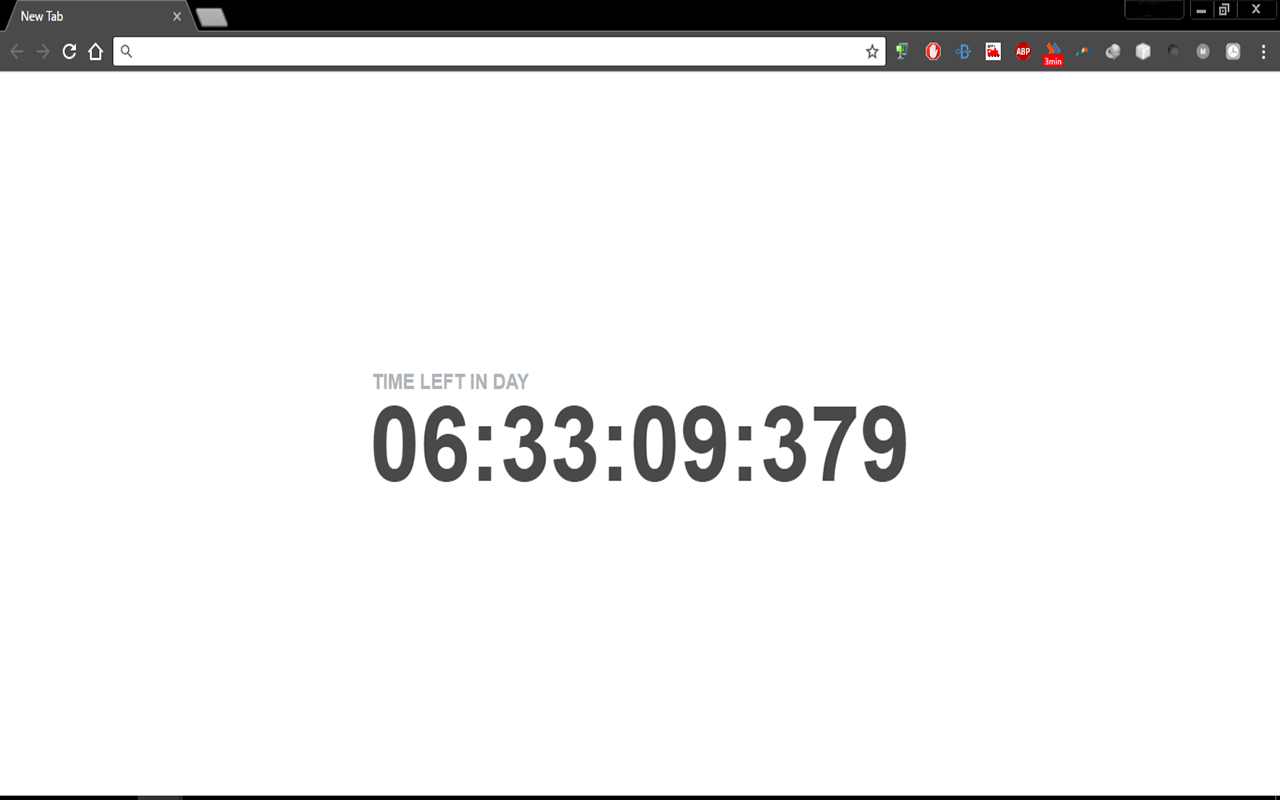
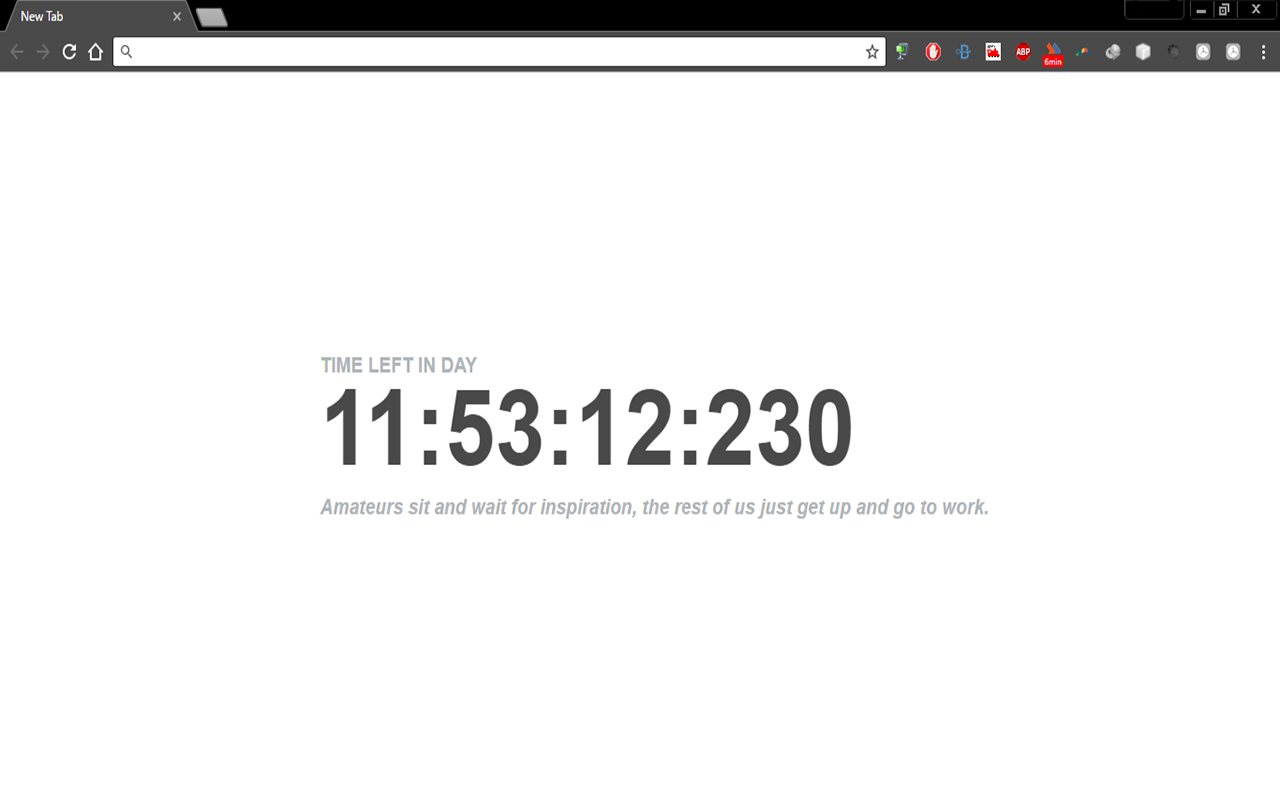
Quotes added

diff --git a/app/timeapp.js b/app/timeapp.js
@@ -2,17 +2,28 @@
 
 var $  = document.getElementById.bind(document);
 var $$ = document.querySelectorAll.bind(document);
-
+var myquote;
 var App = function($el){
   this.$el = $el;
+  this.slidequote();
   this.renderTimeLoop();
 };
 App.fn = App.prototype;
+function getRandomIntInclusive(min, max) {
+  min = Math.ceil(min);
+  max = Math.floor(max);
+  return Math.floor(Math.random() * (max - min + 1)) + min;
+}
+App.fn.slidequote = function(){
+	var mydata = JSON.parse(data);
+	var i=getRandomIntInclusive(0,mydata.length);
+	myquote=mydata[i];
+	
 
+};
 App.fn.renderTimeLoop = function(){
   this.interval = setInterval(this.renderTime.bind(this), 80);
 };
-
 App.fn.renderTime = function(){
     var today = new Date();
 	var hours = (24-today.getHours()-1).toString();
@@ -35,9 +46,11 @@ App.fn.renderTime = function(){
       hour:         hours,
 	  minute:	minutes,
 	  second:	seconds,
-	  milliseconds: milli
+	  milliseconds: milli,
+	  quote:         myquote
     }));
   }.bind(this));
+
 };
 
 App.fn.$$ = function(sel){

diff --git a/css/style.css b/css/style.css
@@ -17,7 +17,7 @@ html {
 
 body {
   -moz-osx-font-smoothing: grayscale;
-  -webkit-align-items: center;
+  
   -webkit-flex-direction: column;
   -webkit-font-smoothing: antialiased;
   -webkit-justify-content: center;
@@ -32,12 +32,20 @@ body, input {
   color: #B0B5B9;
   font-size: 1.2rem;
   line-height: 1;
-  margin: 0 0 0 2px;
+  margin: 0 20% 0 25%;
 }
+.quote-label {
+  color: #B0B5B9;
+  font-size: 1.2rem;
+  line-height: 1;
+  margin: 0 20% 0 25%;
+  font-style:italic;
+}
+
 
 .count {
   color: #494949;
-  margin: 0;
+  margin: 0 20% 0 25%;
   font-size: 6rem;
   line-height: 1;
   font-weight: 600;

diff --git a/home.html b/home.html
@@ -13,10 +13,12 @@
 <div id="timeapp"></div>
 
 <script id="time-template" type="text/x-handlebars-template">
-  <h1 class="time-label">TIME LEFT IN DAY</h1>
+	<h1 class="time-label">TIME LEFT IN DAY</h1>
   <h2 class="count">{{hour}}:{{minute}}:{{second}}:{{milliseconds}}</h2>
+  <br>
+  <h1 class="quote-label">{{quote}}</h1>  
 </script>
-
+<script type="text/javascript" src="app/quotes.json"></script>
 <script src="js/handlebars.js"></script>
 <script src="app/timeapp.js"></script>
 
